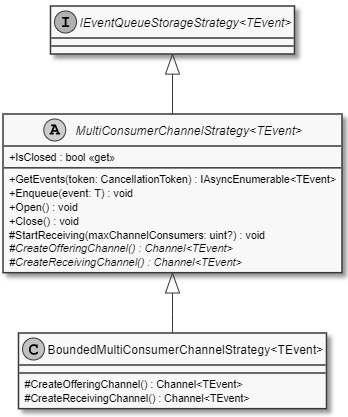
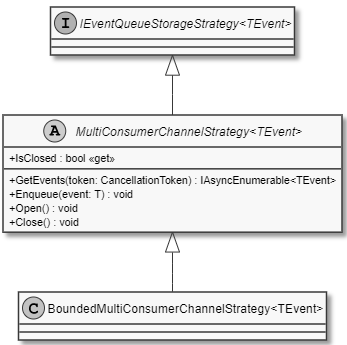
Apply suggestions

diff --git a/documents/sd/chapter/Classes/Common/Events/Events.tex b/documents/sd/chapter/Classes/Common/Events/Events.tex
@@ -174,25 +174,16 @@
 \begin{class}{BoundedMultiConsumerChannelStrategy<TEvent>}
 	\clsdiagram[width=0.5\textwidth]{resources/Classes/Common/Shared/Events/Queue/Strategy/MultiConsumer/BoundedMultiConsumerChannelStrategy.png}
 	
-	\clsdcl{public class BoundedMultiConsumerChannelStrategy<TEvent> : 
+	\clsdcl{public class BoundedMultiConsumerChannelStrategy<TEvent> : \\\
 	MultiConsumerChannelStrategy<TEvent> where TEvent : Event}
 	
 	\clsdsp{A BoundedMultiConsumerChannelStrategies is a Distributive-FIFO Queue which allows multiple producers and multiple consumers. However every event is propagated to each consumer once. This queue is bounded by a buffer capacity. To be more detailed each channel is bound by the bufferCapacity. Is the capacity reached for a specific channel it will drop the oldest event and write the new event.}
-	
-	\begin{methods}	
-		\begin{method}{protected override Channel<TEvent> CreateOfferingChannel()}
-			\return{Channel<TEvent>}{}
-		\end{method}
-		\begin{method}{protected override Channel<TEvent> CreateRecievingChannel()}
-			\return{Channel<TEvent>}{}
-		\end{method}
-	\end{methods}
 \end{class}
 
 \begin{absclass}{MultiConsumerChannelStrategy<TEvent>} 
 	\clsdiagram[width=0.5\textwidth]{resources/Classes/Common/Shared/Events/Queue/Strategy/MultiConsumer/MultiConsumerChannelStrategy.png}
 	
-	\clsdcl{public abstract class MultiConsumerChannelStrategy<TEvent> : 
+	\clsdcl{public abstract class MultiConsumerChannelStrategy<TEvent> : \\\
 	IEventQueueStorageStrategy<TEvent> where TEvent : Event}
 	
 	\clsdsp{A MultiConsumerChannelStrategies is a Distributive-FIFO Queue which allows multiple producers and multiple consumers. However every event is propagated to each consumer once.}
@@ -202,11 +193,6 @@
 	\end{attributes}
 	
 	\begin{methods}
-		\begin{method}{protected void StartReceiving(uint? maxChannelConsumers)}{Sets maximal number of consumers}
-			\begin{parameters}
-				\para{uint? maxChannelConsumers}{Maximal number of consumers}
-			\end{parameters}
-		\end{method}
 		\begin{method}{public IAsyncEnumerable<TEvent> GetEvents(CancellationToken token = default)}{Asynchronously gets all events as concrete type T}
 			\begin{parameters}
 				\para{CancellationToken token = default}
@@ -225,29 +211,16 @@
         \end{method}
         \begin{method}{public void Close()}{Notifies the event queue that no more events will be queued.}
         \end{method}
-        \begin{method}{protected abstract Channel<TEvent> CreateOfferingChannel()}{}
-        \end{method}
-        \begin{method}{protected abstract Channel<TEvent> CreateReceivingChannel()}{}
-        \end{method}
 	\end{methods}
 \end{absclass}
 
 \begin{class}{UnboundedMultiConsumerChannelStrategy<TEvent>}
 	\clsdiagram[width=0.5\textwidth]{resources/Classes/Common/Shared/Events/Queue/Strategy/MultiConsumer/UnboundedMultiConsumerChannelStrategy.png}
 	
-	\clsdcl{public class UnboundedMultiConsumerChannelStrategy<TEvent> : 
+	\clsdcl{public class UnboundedMultiConsumerChannelStrategy<TEvent> : \\\
 	MultiConsumerChannelStrategy<TEvent> where TEvent : Event}
 	
 	\clsdsp{An UnboundedMultiConsumerChannelStrategy is a Distributive-FIFO Queue which allows multiple producers and multiple consumers. However every event is propagated to each consumer once. This queue is unbound, which means that an event is never dismissed. Make sure to only use this queue if you are sure it is bound by a maximum number of events.}
-	
-	\begin{methods}	
-		\begin{method}{protected override Channel<TEvent> CreateOfferingChannel()}
-			\return{Channel<TEvent>}{}
-		\end{method}
-		\begin{method}{protected override Channel<TEvent> CreateRecievingChannel()}
-			\return{Channel<TEvent>}{}
-		\end{method}
-	\end{methods}
 \end{class}
 
 \subsubsection*{SingleConsumer}
@@ -255,22 +228,17 @@
 \begin{class}{BoundedSingleConsumerChannelStrategy<TEvent>}
 	\clsdiagram[width=0.5\textwidth]{resources/Classes/Common/Shared/Events/Queue/Strategy/SingleConsumer/BoundedSingleConsumerChannelStrategy.png}
 	
-	\clsdcl{public class BoundedSingleConsumerChannelStrategy<TEvent> :
+	\clsdcl{public class BoundedSingleConsumerChannelStrategy<TEvent> : \\\
 	 SingleConsumerChannelStrategy<TEvent> where TEvent : Event}
 	
 	\clsdsp{A BoundedSingleConsumerChannelStrategy is a Distributive-FIFO Queue which allows multiple producers and a single consumer. This queue is performance optimized for a single consumer and should be preferred in this case. This queue is bounded by a buffer capacity. If capacity is reached it will dismiss the oldest event and queue the new event.}
 	
-	\begin{methods}	
-		\begin{method}{protected override Channel<TEvent> CreateChannel()}
-			\return{Channel<TEvent>}{}
-		\end{method}
-	\end{methods}
 \end{class}
 
 \begin{absclass}{SingleConsumerChannelStrategy<TEvent>} 
 	\clsdiagram[width=0.5\textwidth]{resources/Classes/Common/Shared/Events/Queue/Strategy/SingleConsumer/SingleConsumerChannelStrategy.png}
 	
-	\clsdcl{public abstract class SingleConsumerChannelStrategy<TEvent> : 
+	\clsdcl{public abstract class SingleConsumerChannelStrategy<TEvent> : \\\
 	IEventQueueStorageStrategy<TEvent> where TEvent : Event}
 	
 	\clsdsp{A SingleConsumerChannelStrategies is a Distributive-FIFO Queue which allows multiple producers and singer consumers. This queue is performance optimized for a single consumer and should be preferred in this case.}
@@ -298,24 +266,16 @@
         \end{method}
         \begin{method}{public void Close()}{Notifies the event queue that no more events will be queued.}
         \end{method}
-        \begin{method}{protected abstract Channel<TEvent> CreateChannel()}{}
-        \end{method}
 	\end{methods}
 \end{absclass}
 
 \begin{class}{UnboundedSingleConsumerChannelStrategy<TEvent>}
 	\clsdiagram[width=0.5\textwidth]{resources/Classes/Common/Shared/Events/Queue/Strategy/SingleConsumer/UnboundedSingleConsumerChannelStrategy.png}
 	
-	\clsdcl{public class UnboundedSingleConsumerChannelStrategy<TEvent> : 
+	\clsdcl{public class UnboundedSingleConsumerChannelStrategy<TEvent> :\\\
 	SingleConsumerChannelStrategy<TEvent> where TEvent : Event}
 	
 	\clsdsp{A UnboundedSingleConsumerChannelStrategy is a Distributive-FIFO Queue which allows multiple producers and a single consumer. This queue is performance optimized for a single consumer and should be preferred in this case.  This queue is unbounded and will therefore don't dismiss any events.}
-	
-	\begin{methods}	
-		\begin{method}{protected override Channel<TEvent> CreateChannel()}
-			\return{Channel<TEvent>}{}
-		\end{method}
-	\end{methods}
 \end{class}
 
 

diff --git a/documents/sd/chapter/Classes/Common/Utility/Utility.tex b/documents/sd/chapter/Classes/Common/Utility/Utility.tex
@@ -7,6 +7,15 @@
 	
 	\clsdsp{Encapsulates a directory path.}
 	
+	\begin{constructors}
+		\begin{constructor}{public DirectoryPath(string value, bool skipValidation = false)}{Creates a new instance of the DirectoryPath with provided value}
+			\begin{parameters}
+				\para{string value}{The value to create the DirectoryPath with}
+				\para{bool skipValidation}{Always false}
+			\end{parameters}
+		\end{constructor}
+	\end{constructors}
+	
 	\begin{methods}
 		\begin{method}{public override string ToString()}{A string representation of the directory path.}
 			\return{string}{DirectoryPath instance as a string}
@@ -21,6 +30,15 @@
 	
 	\clsdsp{Encapsulates a local file path.}
 	
+	\begin{constructors}
+		\begin{constructor}{public FilePath(string value, bool skipValidation = false)}{Creates a new instance of the FilePath with provided value}
+			\begin{parameters}
+				\para{string value}{The value to create the FilePath with}
+				\para{bool skipValidation}{Always false}
+			\end{parameters}
+		\end{constructor}
+	\end{constructors}
+	
 	\begin{methods}
 		\begin{method}{public override string ToString()}{A string representation of the file path.}
 			\return{string}{FilePath instance as a string}
@@ -33,7 +51,7 @@
 	
 	\clsdcl{public static class Utility}
 	
-	\clsdsp{}
+	\clsdsp{Contains the utility methods.}
 	
 	\begin{methods}
 		\begin{method}{public static void SetAndDispatch(ref bool variable, bool value, Action onTrue, Action onFalse)}{Sets a boolean property and dispatches based on its value.}

diff --git a/documents/sd/chapter/Classes/Common/Configuration/Configuration.tex b/documents/sd/chapter/Classes/Common/Configuration/Configuration.tex
@@ -1,11 +1,19 @@
 \subsection*{MORR.Shared.Configuration}
 
 \begin{interface}{IConfiguration}
-    \clsdiagram[scale = 0.3]{resources/Classes/Common/Shared/Configuration/IConfiguration.png}
+    \clsdiagram[scale = 1]{resources/Classes/Common/Shared/Configuration/IConfiguration.png}
 
     \clsdcl{public interface IConfiguration}
 
     \clsdsp{Encapsulates a self-contained unit of configuration.}
+    
+    \begin{methods}
+    	\begin{method}{void Parse(RawConfiguration configuration)}{Parses the configuration from the provided value.}
+    		\begin{parameters}
+    			\para{RawConfiguration configuration}{The configuration to parse from}
+    		\end{parameters}
+    	\end{method}
+    \end{methods}
     
 \end{interface}
 
@@ -19,6 +27,14 @@
 	\begin{attributes}
 		\attribute{public string RawValue \{ get; \}}{Value of the configuration}
 	\end{attributes}
+	
+	\begin{constructors}
+		\begin{constructor}{public RawConfiguration(string rawValue)}{Creates a new instance of the RawConfiguration with provided rawValue}
+			\begin{parameters}
+				\para{string rawValue}{Value of the RawConfiguration.}
+			\end{parameters}
+		\end{constructor}
+	\end{constructors}
 	
 \end{class}
 		
